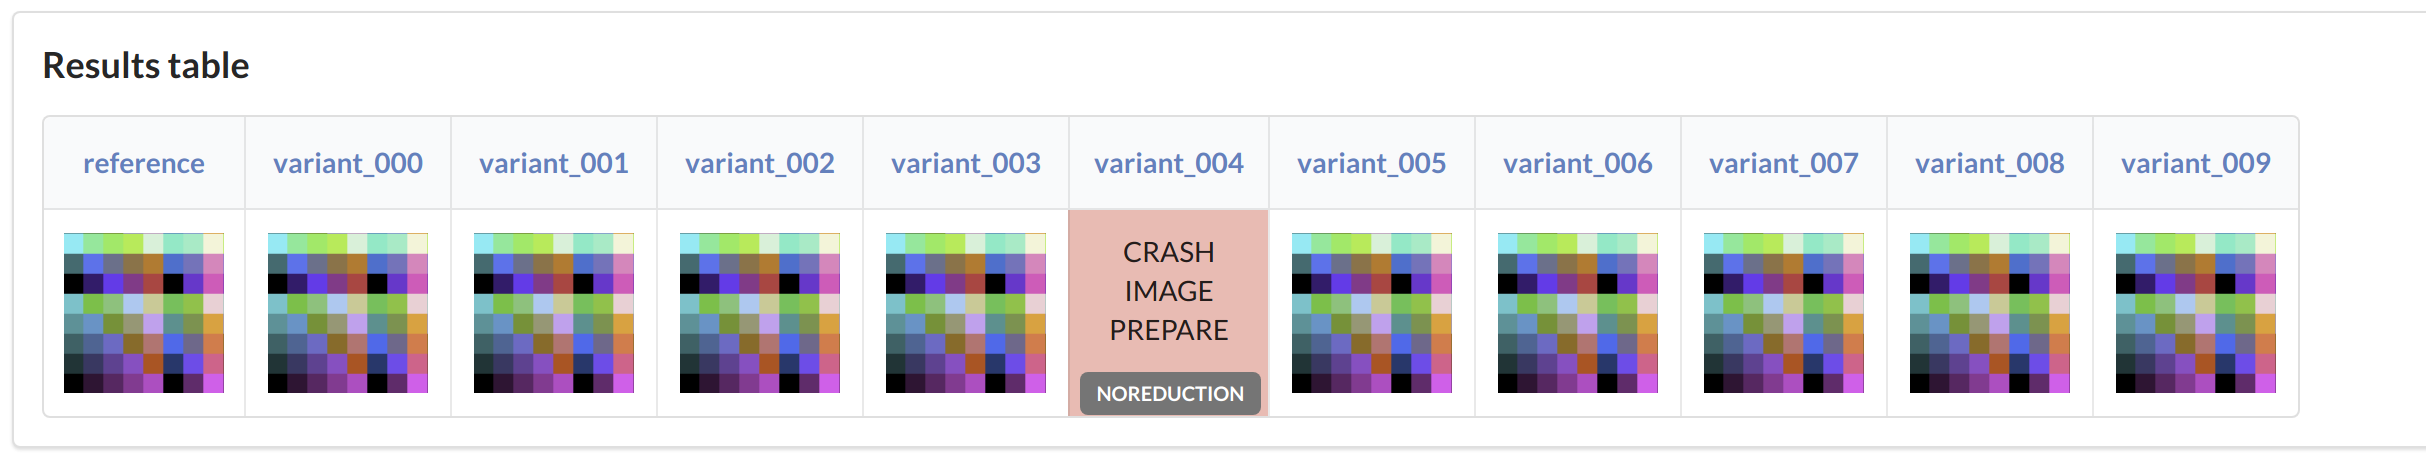
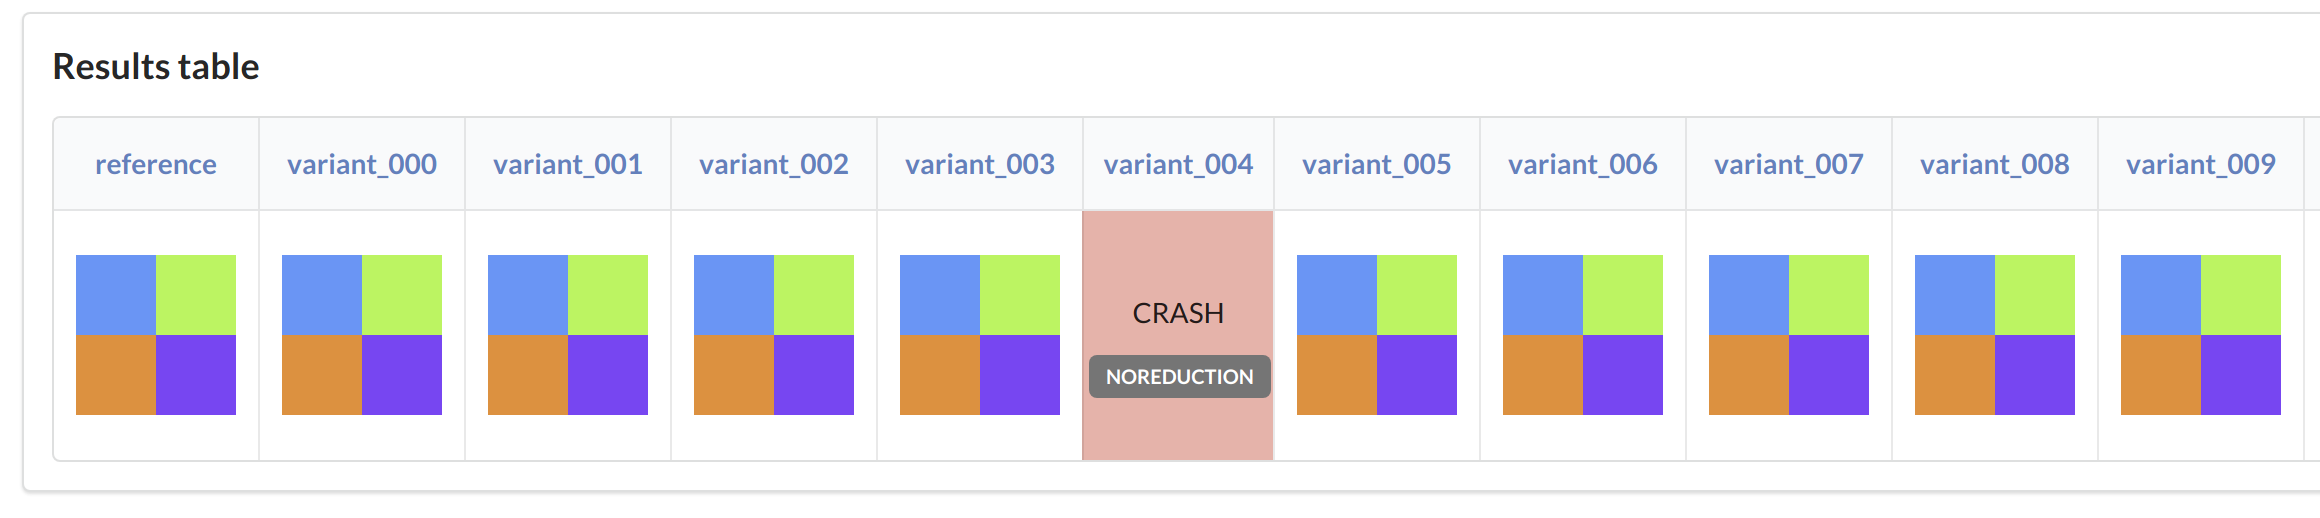
Update crash example screenshots and text

diff --git a/docs/glsl-fuzz-walkthrough.md b/docs/glsl-fuzz-walkthrough.md
@@ -587,30 +587,33 @@ the default reduction settings are sufficient, so just click
 > on the worker. You can kill and restart the server to clear its
 > work queues.
 
+Refresh the page to check the progress of the reduction.
 Once the reduction has finished,
-refresh the page and you should see the result:
+you should see the result:
 
-![Variant_001 reduction result](images/screenshot-variant-reduction-result.png)
+![Variant_009 reduction result](images/screenshot-variant-reduction-result.png)
 
 In particular, you can see the difference between the
 reference shader and the reduced variant shader.
 The results will depend on what shader compiler bugs (if any!) you find on your platform, but
 in the above example,
-adding just 4 lines (that should have no effect) to the reference shader
+adding just a few lines (that should have no effect) to the reference shader
 was enough to cause the wrong image to be rendered.
 
 > The diff view currently assumes that the `diff` command line tool is
-> available and on the path, which may not be the case on your system.
+> available on the path, which may not be the case on your system.
 
 ## Queuing a no image reduction
 
 > Reductions for the case where no SSBO is produced by a compute shader cannot be launched via the Web UI.  [See how to launch them via the command line](#Performing-a-no-image-reduction-on-a-fragment-or-compute-shader).
 
 The results table for the shader family below shows
-that `variant_004` failed to render due to a crash
-during shader compilation:
+that `variant_004` failed to render due to a crash:
 
 ![Table of image results](images/screenshot-results-table-crash.png)
+
+> The CRASH status indicates that no image was produced; the
+> worker may not have necessarily crashed.
 
 Click on the red table cell to view the single result page
 and click "Reduce result" to reveal the reduction panel:
@@ -618,32 +621,22 @@ and click "Reduce result" to reveal the reduction panel:
 ![Single result page with crash](images/screenshot-single-result-crash.png)
 
 In the "Error string" text box, enter a substring from the "Run log" text box
-that will confirm the issue.  For example, in this case, we could enter "Fatal
-signal 11".  Ideally, we should enter something even more specific, such as a
+that will confirm the issue.  For example, in this case, we could enter
+"Calling vkWaitForFences Timeout" (without quotes). 
+Another common string is: "Fatal signal 11".
+Ideally, we should enter something even more specific, such as a
 function name from a stack trace, but this is only possible if a stack trace is
 shown in the run log.
 
-We can also surmise that the error occurs during shader compilation,
-and so any successful shader compilation during the reduction process
-is uninteresting.
-As such,
-we can greatly speed up the reduction by enabling the "Skip Render"
-option.
-
-> The "Skip Render" option causes the worker to only compile the shader,
+> Enabling the "Skip Render" option causes the worker to only compile the shader,
 > without rendering an image, which is much faster.
-> In this case,
-> a successful compilation is regarded as uninteresting for the reduction.
-> You should not enable this option if the error you are reducing
-> occurs during rendering, or as a result of rendering.
+> However, you must ensure that this is still sufficient to trigger
+> the required error string output.
+> If you enable "Skip Render", 
+> the reduction will fail almost instantly if the error string output
+> does not appear, in which case you can try again without "Skip Render".
 
-The other default settings are sufficient, so click "Start Reduction".
-
-This time, you will not see the worker rendering the image,
-because the "Skip Render" option has been set,
-although you may still see the "sanity image" being rendered,
-which is used to check that the graphics driver is still
-able to render a basic image.
+The default settings are sufficient, so click "Start Reduction".
 
 Once the reduction has finished,
 refresh the page and you should see the result.
@@ -653,12 +646,6 @@ as the reducer will have removed as much code as possible
 (because the "Preserve Semantics" option was disabled).
 Thus, click "View reduced shader" to
 see the small, simple shader that triggers the bug:
-
-![Reduced result](images/screenshot-crash-reduction-result.png)
-
-In the above example,
-a function body that contains a somewhat complex `pow` function call
-is enough to trigger the bug.
 
 
 ## After updating a device
